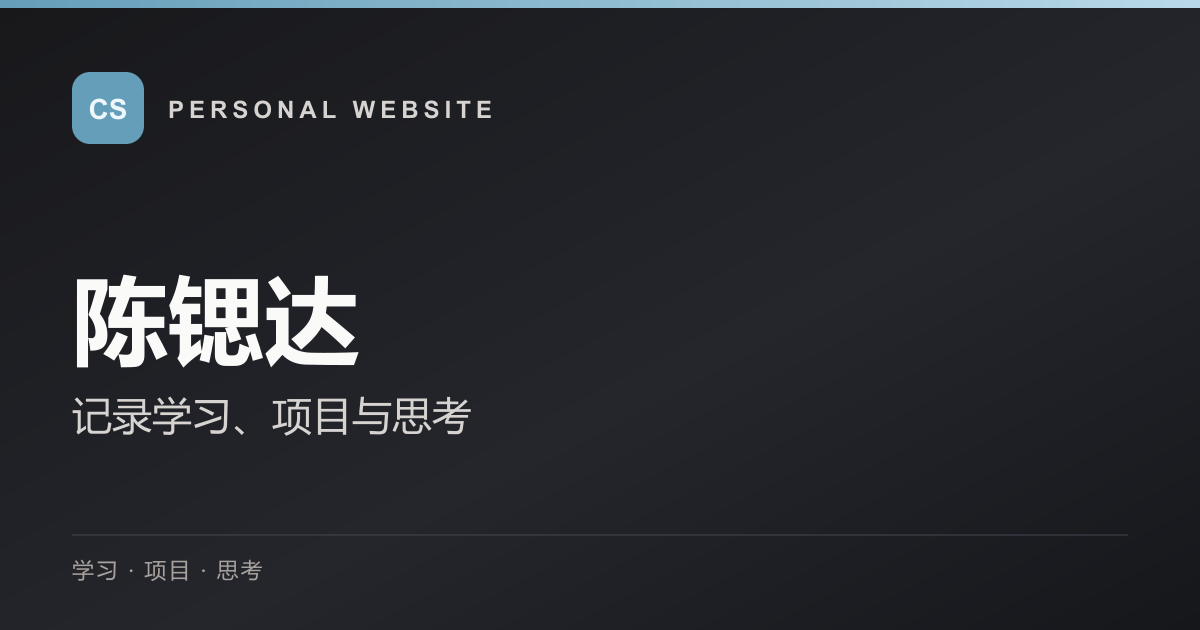
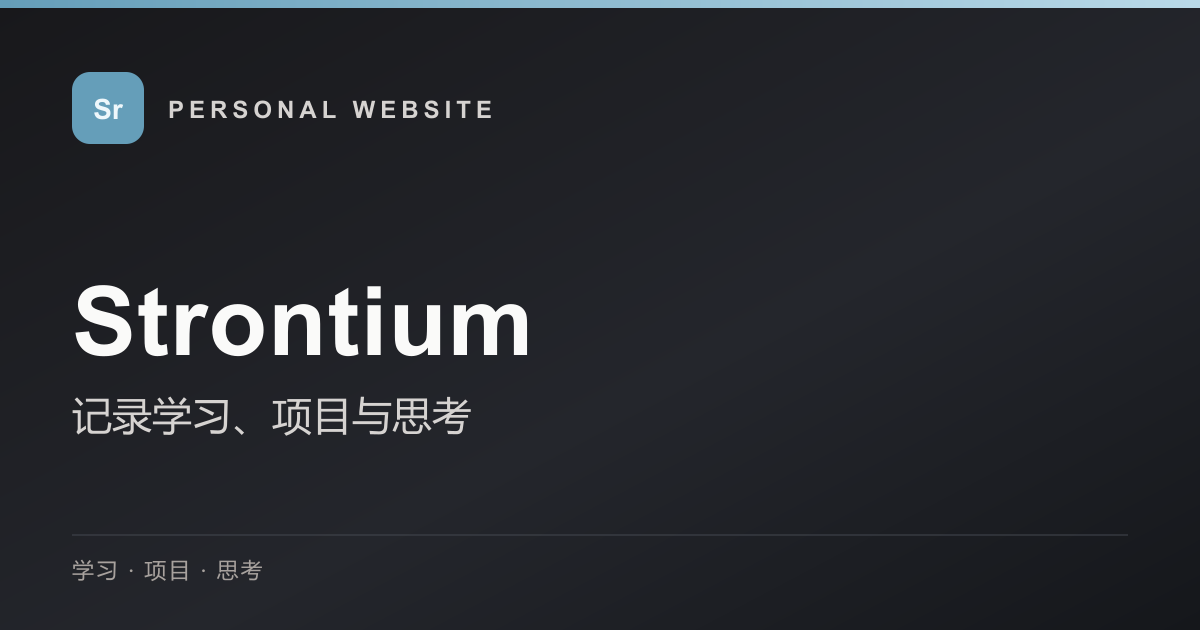
feat(site): personalize Strontium profile and projects

Changed region(s): [[0.0617, 0.4222, 0.4625, 0.6032], [0.0617, 0.1508, 0.1233, 0.181]]

diff --git a/uno.config.ts b/uno.config.ts
@@ -12,19 +12,19 @@ const typographyConfig = {
       'font-weight': '500',
       color: fg
     },
-    'h1>a,h2>a,h3>a,h4>a,h5>a,h6>a': {
+    'h1>a.anchor,h2>a.anchor,h3>a.anchor,h4>a.anchor,h5>a.anchor,h6>a.anchor': {
       'margin-inline-start': '0.75rem',
       color: fgMuted,
       transition: 'opacity 0.2s ease',
       opacity: '0'
     },
-    'h1>a:focus,h2>a:focus,h3>a:focus,h4>a:focus,h5>a:focus,h6>a:focus': {
+    'h1>a.anchor:focus,h2>a.anchor:focus,h3>a.anchor:focus,h4>a.anchor:focus,h5>a.anchor:focus,h6>a.anchor:focus': {
       opacity: 1
     },
-    'h1:hover>a,h2:hover>a,h3:hover>a,h4:hover>a,h5:hover>a,h6:hover>a': {
+    'h1:hover>a.anchor,h2:hover>a.anchor,h3:hover>a.anchor,h4:hover>a.anchor,h5:hover>a.anchor,h6:hover>a.anchor': {
       opacity: 1
     },
-    'h1:target>a,h2:target>a,h3:target>a,h4:target>a,h5:target>a,h6:target>a': {
+    'h1:target>a.anchor,h2:target>a.anchor,h3:target>a.anchor,h4:target>a.anchor,h5:target>a.anchor,h6:target>a.anchor': {
       opacity: 1
     },
     // Blockquote

diff --git a/src/site.config.ts b/src/site.config.ts
@@ -1,8 +1,8 @@
 import type { Config, IntegrationUserConfig, ThemeUserConfig } from 'astro-pure/types'
 
 export const theme: ThemeUserConfig = {
-  title: '陈锶达的个人网站',
-  author: '陈锶达',
+  title: 'Strontium',
+  author: 'Strontium',
   description: '记录学习、项目与思考。',
   favicon: '/favicon.svg',
   locale: {
@@ -50,8 +50,8 @@ export const integ: IntegrationUserConfig = {
     applyTip: [
       { name: 'Name', val: theme.title },
       { name: 'Desc', val: theme.description || '' },
-      { name: 'Link', val: 'https://example.com/' },
-      { name: 'Avatar', val: 'https://example.com/favicon.svg' }
+      { name: 'Link', val: 'https://strontium-two.vercel.app/' },
+      { name: 'Avatar', val: 'https://strontium-two.vercel.app/favicon.svg' }
     ]
   },
   pagefind: false,

diff --git a/src/pages/rss.xml.ts b/src/pages/rss.xml.ts
@@ -18,7 +18,7 @@ export const prerender = true
 
 // Get dynamic import of images as a map collection
 const imagesGlob = import.meta.glob<{ default: ImageMetadata }>(
-  '/src/content/blog/**/*.{jpeg,jpg,png,gif}' // add more image formats if needed
+  '/src/content/blog/**/*.{jpeg,jpg,png,gif,webp}' // add more image formats if needed
 )
 
 const renderContent = async (post: CollectionEntry<'blog'>, site: URL) => {

diff --git a/README.md b/README.md
@@ -1,6 +1,6 @@
 # Personal Website
 
-陈锶达的个人网站，基于 Astro 5 与 Astro Theme Pure 构建。
+Strontium 的个人网站，基于 Astro 5 与 Astro Theme Pure 构建。
 
 当前仓库已经移除上游模板作者的文章、头像、二维码、活动、项目案例和外部服务配置，只保留博客、笔记、搜索、双语路由、RSS、SEO 与主题切换等通用能力。
 
